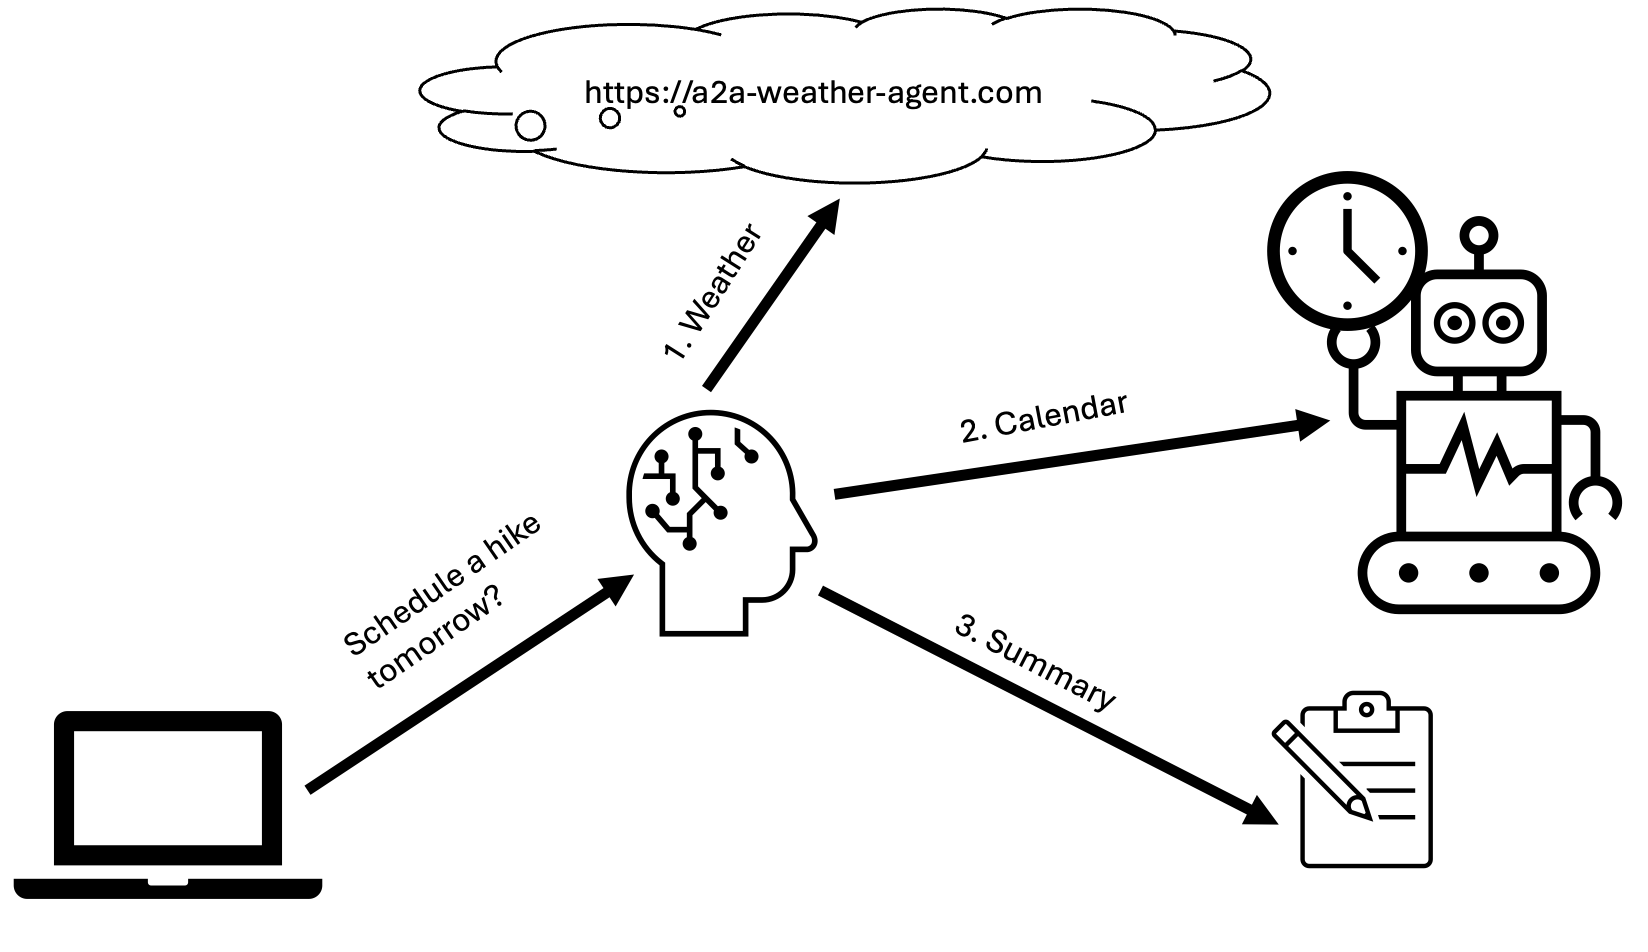
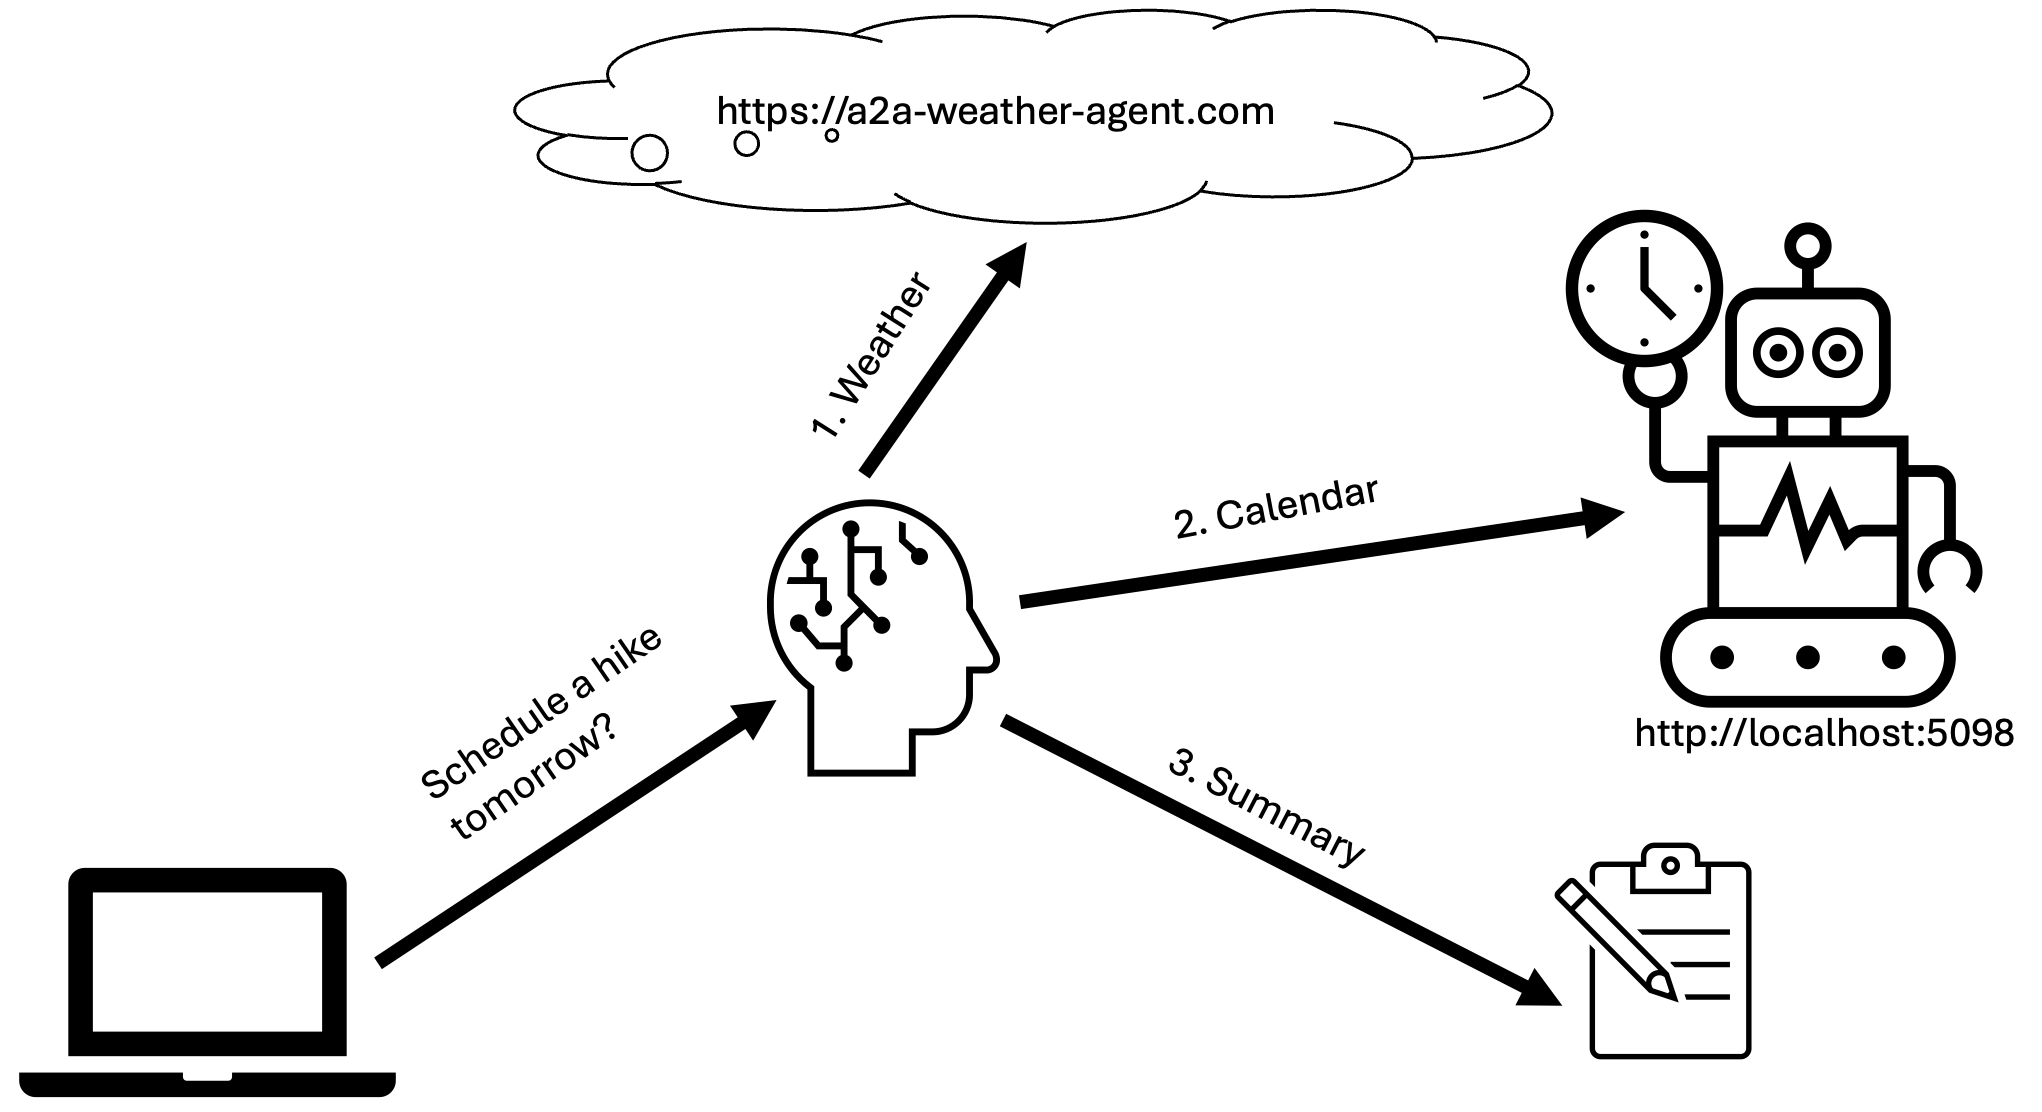
updated summary images for workshops 3 & 4

diff --git a/4. Multi-Agent Coordination/README.md b/4. Multi-Agent Coordination/README.md
@@ -10,6 +10,8 @@ We would be able to ask the client to schedule an outdoor activity for us. It wi
 
 ![workflow](workflow.png)
 
+![alt text](image.png)
+
 We will be using a sequential workflow since more than one agent is involved.
 
 ## Setup
